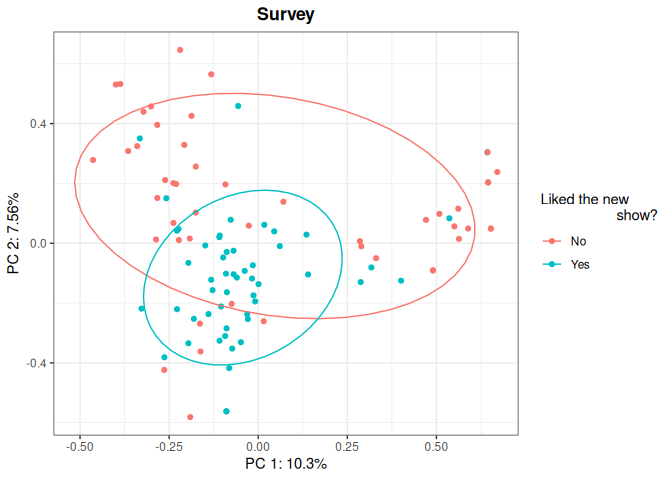
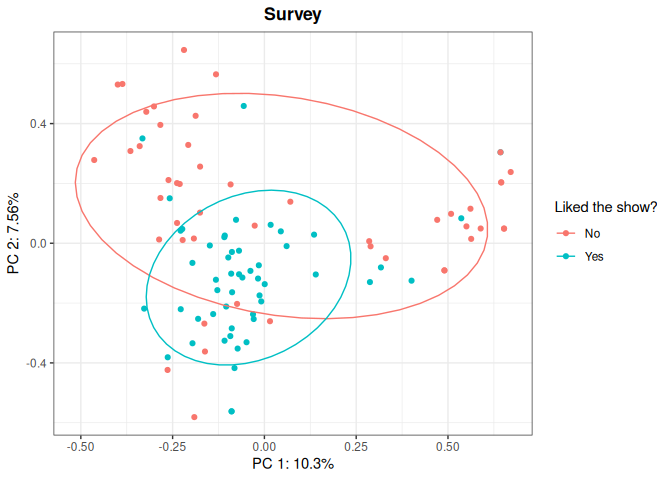
version 1.0.2

diff --git a/README.md b/README.md
@@ -76,12 +76,12 @@ head(showdata)
 #> 5            Yes
 #> 6             No
 KD <- Dirac(showdata[,1:4])
-dirac_kpca <- kPCA(KD,plot=c(1,2),title="Survey", name_leg = "Liked the new 
-                   show?", y=showdata$Liked.new.show, ellipse=0.66)
+dirac_kpca <- kPCA(KD,plot=c(1,2),title="Survey", name_leg = "Liked the show?", 
+                   y=showdata$Liked.new.show, ellipse=0.66)
 dirac_kpca$plot
 ```
 
-<img src="man/figures/README-example-1.png" alt="Dirac kernel PCA." width="100%" />
+<img src="man/figures/README-example-1.png" alt="Dirac kernel PCA." width="65%" />
 
 You can customize your kernel PCA plot: apart from picking which
 principal components you want to display (in the example: PC1 and PC2),

diff --git a/NEWS.md b/NEWS.md
@@ -1,3 +1,7 @@
+# kerntools 1.0.2
+
+* Fixed errors that arose during CRAN Package Check when using alternative BLAS/LAPACK implementations.
+
 # kerntools 1.0.1
 
 * Fixed some typos in the DESCRIPTION file and the 'Acc()' function.
